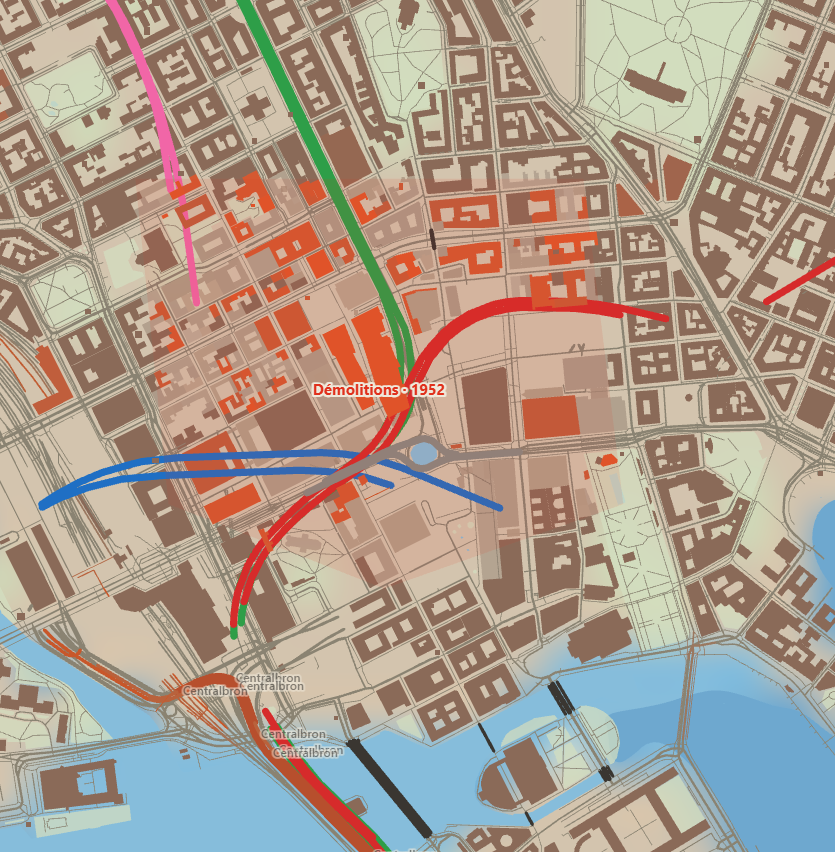
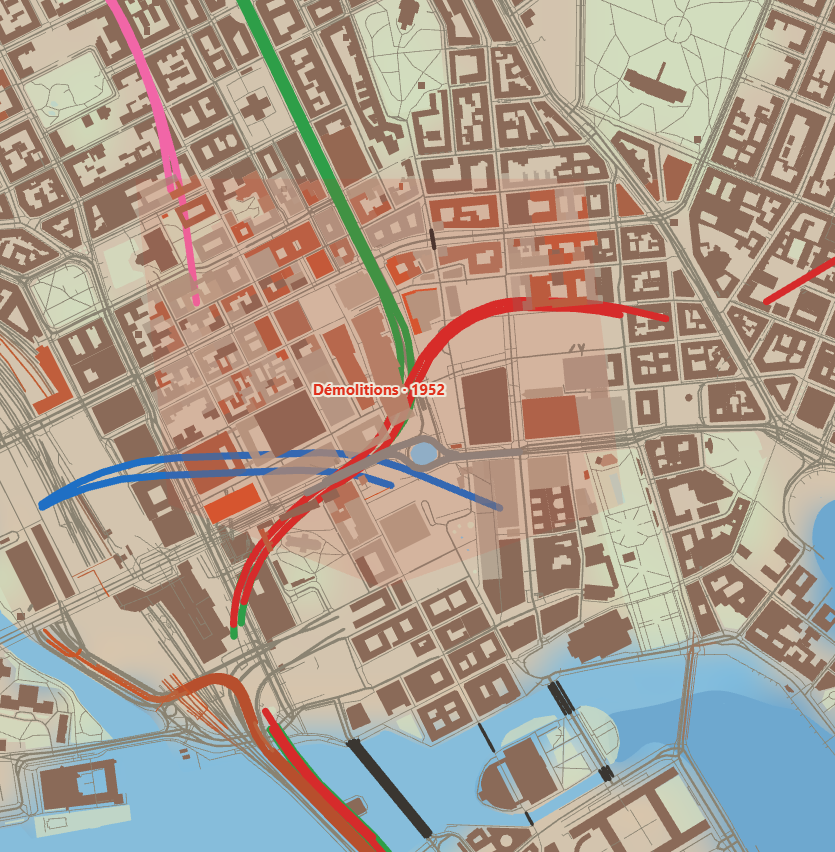
perf: objets datés en couche incrémentale (rectangles groupés, petits objets sans surface réelle masqués)

diff --git a/page/carte.js b/page/carte.js
@@ -338,56 +338,107 @@ function dessinerEau(P, villeA) {
   }
 }
 
-/* Objets datés : regroupés par couleur et par largeur (quelques traits au lieu de dizaines de milliers). */
-function dessinerObjets(P, dim) {
-  const pal = sombre() ? GROUPES_SOMBRE : GROUPES, k = Math.max(0.55, Math.min(2.4, Math.sqrt(30000 / cam.span))) * dpr;
-  const lots = new Map(), noms = [];
+/* Objets datés : regroupés par couleur et par largeur (quelques traits au lieu de dizaines de milliers).
+   Les objets « mûrs » (bâtis depuis plus de 28 ans : leur couleur ne change plus) sont dessinés une fois dans une COUCHE hors écran,
+   complétée au fil des années (on n'ajoute que les nouveaux) ; seuls les jeunes et les destructions sont redessinés à chaque image.
+   Pendant un mouvement de caméra, la couche (déplacée) sert d'image provisoire, puis elle est refaite nette 140 ms après l'arrêt. */
+const AGE_MUR = 28.2;                                  // au-delà : t = 1 dans le fondu de couleur (voir empiler)
+let coucheObjets = null, reglageObjets = 0;
+const compter = (tri, x) => { let a = 0, b = tri.length; while (a < b) { const m = (a + b) >> 1; if (tri[m] <= x) a = m + 1; else b = m; } return a; };   // éléments ≤ x d'un tableau trié
+function aireM2(o) {
+  if (o.m2 !== undefined) return o.m2;
+  const a = o.f[0]; let s = 0; for (let i = 0, n = a.length; i < n; i += 2) { const j = (i + 2) % n; s += a[i] * a[j + 1] - a[j] * a[i + 1]; }
+  return (o.m2 = Math.abs(s) / 2 / (KM * KM));      // KM : voir themes.js
+}
+/* prépare les listes d'objets à dessiner (appelé quand ville.objets change) */
+function preparerObjets() {
+  const stables = [], speciaux = [];
   for (const o of ville.objets) {
-    if (o.an > an) break;                               // triés par année
     if (o.k === "point") continue;                      // pas de points : seulement des surfaces et des lignes
-    if (o.g === "voirie" && cam.span > 9000 && (o.w || 1) < 1.9) continue;   // de loin : seulement les grandes rues
-    let brule = -1;                                     // années depuis la destruction (incendie, démolition) ; -1 = debout
-    if (o.fin != null && an > o.fin + 0.001) {
-      const apres = an - o.fin;
-      if (o.g === "bati" && !o.brule) { /* un bâtiment démoli d'après OSM reste : on ne sait pas le remplacer */ }
-      else if ((o.brule || o.g === "monument") && apres < 20) brule = apres;
-      else continue;
-    }
-    if (!o.f.length || !dansVue(lie(o.f[0]), cam)) continue;
-    const age = an - o.an, t = Math.min(1, Math.round(age / 30 * 8) / 8), coul = o.couleur || (pal[o.g] || pal.bati);
-    let col = typeof coul === "string" ? coul : t < 1 ? mixer(coul[1], coul[0], t) : coul[0];
-    if (brule >= 0) col = mixer(o.demoli ? "#b9a48c" : "#e0301c", sombre() ? "#4a3a36" : "#6b5a52", Math.round(Math.min(1, brule / 20) * 8) / 8);
-    const al = (dim && !dim.has(o.g) ? 0.22 : 1) * (brule >= 0 ? Math.max(0.15, 1 - brule / 22) : 1), lw = o.k === "ligne" ? Math.max(0.6 * dpr, (o.w || 1) * 0.55 * k * (o.g === "lignes" ? 1.3 : 1)) : 0;
-    const cle = `${o.k}|${col}|${al}|${lw.toFixed(1)}|${o.tunnel ? 1 : 0}`;
-    let l = lots.get(cle); if (!l) lots.set(cle, l = { k: o.k, col, al, lw, tunnel: !!o.tunnel, liste: [] });
-    l.liste.push(o);
-    if (o.nom && age >= 0 && age < 18 && o.k === "ligne" && o.g === "ponts") noms.push([o, age]);
-    if (o.nom && o.g === "monument" && age >= 0 && (age < 25 || brule >= 0 || edition)) noms.push([o, brule >= 0 ? 0 : Math.min(age, 17)]);
+    (o.g === "monument" || (o.fin != null && !(o.g === "bati" && !o.brule)) ? speciaux : stables).push(o);
   }
-  cx.lineJoin = cx.lineCap = "round";
-  const S = cv.width / cam.span; let tiny = null;
+  ville.stables = stables; ville.speciaux = speciaux; ville.stablesAn = Float64Array.from(stables, (o) => o.an);
+  coucheObjets = null;
+}
+/* range l'objet dans son lot (couleur, opacité, largeur) ; renvoie son âge et sa destruction, ou null s'il n'est pas dessiné */
+function empiler(lots, o, pal, k, dim, span) {
+  if (o.g === "voirie" && span > 9000 && (o.w || 1) < 1.9) return null;   // de loin : seulement les grandes rues
+  if (o.g === "bati" && o.k === "poly") { const a = aireM2(o); if (a < 15 || (span > 2500 && a < 40)) return null; }   // kiosques, abris, entrées de métro : pas des bâtiments
+  let brule = -1;                                       // années depuis la destruction (incendie, démolition) ; -1 = debout
+  if (o.fin != null && an > o.fin + 0.001) {
+    const apres = an - o.fin;
+    if (o.g === "bati" && !o.brule) { /* un bâtiment démoli d'après OSM reste : on ne sait pas le remplacer */ }
+    else if ((o.brule || o.g === "monument") && apres < 20) brule = apres;
+    else return null;
+  }
+  const age = an - o.an, t = Math.min(1, Math.round(age / 30 * 8) / 8), coul = o.couleur || (pal[o.g] || pal.bati);
+  let col = typeof coul === "string" ? coul : t < 1 ? mixer(coul[1], coul[0], t) : coul[0];
+  if (brule >= 0) col = mixer(o.demoli ? "#b9a48c" : "#e0301c", sombre() ? "#4a3a36" : "#6b5a52", Math.round(Math.min(1, brule / 20) * 8) / 8);
+  const al = (dim && !dim.has(o.g) ? 0.22 : 1) * (brule >= 0 ? Math.max(0.15, 1 - brule / 22) : 1), lw = o.k === "ligne" ? Math.max(0.6 * dpr, (o.w || 1) * 0.55 * k * (o.g === "lignes" ? 1.3 : 1)) : 0;
+  const cle = `${o.k}|${col}|${al}|${lw.toFixed(1)}|${o.tunnel ? 1 : 0}`;
+  let l = lots.get(cle); if (!l) lots.set(cle, l = { k: o.k, col, al, lw, tunnel: !!o.tunnel, liste: [] });
+  l.liste.push(o);
+  return { age, brule };
+}
+/* dessine les lots sur g (la toile principale ou la couche) avec la caméra cm */
+function tracerLots(g, cm, lots) {
+  const S = g.canvas.width / cm.span, W2 = g.canvas.width / 2, H2 = g.canvas.height / 2, petit = 7 * dpr;
+  g.lineJoin = g.lineCap = "round";
   for (const l of lots.values()) {
-    cx.globalAlpha = l.al; cx.beginPath(); if (l.k === "poly") cx.fillStyle = l.col;
+    g.globalAlpha = l.al; g.beginPath();
     for (const o of l.liste) {
-      const b = lie(o.f[0]), w = (b[2] - b[0]) * S, h = (b[3] - b[1]) * S;
-      if (l.k === "poly" && w < 7 * dpr && h < 7 * dpr) {                // de loin : un petit carré, écrit directement dans les pixels (22 000 fillRect prenaient 1,3 s)
-        if (!tiny) { tiny = { img: cx.createImageData(cv.width, cv.height) }; }
-        if (l.rgb === undefined) { const hx = l.col; l.rgb = hx[0] === "#" && hx.length === 7 ? [1, 3, 5].map((i) => parseInt(hx.slice(i, i + 2), 16)) : null; }
-        if (l.rgb) {
-          const X0 = Math.floor(px(b[0])), X1 = Math.max(X0 + 1, Math.ceil(px(b[2]))), Y0 = Math.floor(py(b[3])), Y1 = Math.max(Y0 + 1, Math.ceil(py(b[1]))), d = tiny.img.data, A = Math.round(255 * l.al);
-          for (let yy = Y0; yy < Y1; yy++) for (let xx = X0; xx < X1; xx++) {
-            if (xx < 0 || yy < 0 || xx >= cv.width || yy >= cv.height) continue; const i = 4 * (yy * cv.width + xx); d[i] = l.rgb[0]; d[i + 1] = l.rgb[1]; d[i + 2] = l.rgb[2]; d[i + 3] = A;
-          }
-        }
-        continue;
+      const b = lie(o.f[0]);
+      if (!dansVue(b, cm, g.canvas)) continue;
+      const w = (b[2] - b[0]) * S, h = (b[3] - b[1]) * S;
+      if (l.k === "poly" && w < petit && h < petit) {      // de loin : un petit rectangle calé sur les pixels
+        const X0 = Math.floor(W2 + (b[0] - cm.x) * S), Y0 = Math.floor(H2 - (b[3] - cm.y) * S);
+        g.rect(X0, Y0, Math.max(1, Math.ceil(W2 + (b[2] - cm.x) * S) - X0), Math.max(1, Math.ceil(H2 - (b[1] - cm.y) * S) - Y0)); continue;
       }
       if (l.k === "ligne" && w < 1.5 && h < 1.5) continue;
-      for (const a of o.f) trace(cx, a, l.k === "poly", cam);
+      for (const a of o.f) trace(g, a, l.k === "poly", cm);
     }
-    if (l.k === "poly") { cx.fillStyle = l.col; cx.fill(); }
-    else { cx.strokeStyle = l.col; cx.lineWidth = l.lw; cx.setLineDash(l.tunnel ? [4 * dpr, 4 * dpr] : []); cx.stroke(); cx.setLineDash([]); }
+    if (l.k === "poly") { g.fillStyle = l.col; g.fill(); }
+    else { g.strokeStyle = l.col; g.lineWidth = l.lw; g.setLineDash(l.tunnel ? [4 * dpr, 4 * dpr] : []); g.stroke(); g.setLineDash([]); }
   }
-  if (tiny) { const c2 = document.createElement("canvas"); c2.width = cv.width; c2.height = cv.height; c2.getContext("2d").putImageData(tiny.img, 0, 0); cx.globalAlpha = 1; cx.drawImage(c2, 0, 0); }
+  g.globalAlpha = 1;
+}
+/* la couche des objets mûrs : de l'indice a (inclus) à b (exclu) de ville.stables */
+function remplirCouche(L, a, b, pal, k, dim) {
+  const lots = new Map(), S = ville.stables;
+  for (let i = a; i < b; i++) if (S[i].an <= an - AGE_MUR) empiler(lots, S[i], pal, k, dim, L.cm.span);
+  tracerLots(L.g, L.cm, lots); L.vers = b;
+}
+function nouvelleCouche(pal, k, dim, cle) {
+  const c = document.createElement("canvas"); c.width = cv.width; c.height = cv.height;
+  const L = { c, g: c.getContext("2d"), cm: { ...cam }, vers: 0, cle };
+  remplirCouche(L, 0, compter(ville.stablesAn, an - AGE_MUR), pal, k, dim); return L;
+}
+function dessinerObjets(P, dim) {
+  if (!ville.stables) preparerObjets();
+  const pal = sombre() ? GROUPES_SOMBRE : GROUPES, k = Math.max(0.55, Math.min(2.4, Math.sqrt(30000 / cam.span))) * dpr;
+  const mur = compter(ville.stablesAn, an - AGE_MUR), tout = compter(ville.stablesAn, an);
+  const cle = `${sombre() ? 1 : 0}|${dpr}|${cv.width}|${cv.height}|${dim ? themeCourant : ""}`;
+  let L = coucheObjets;
+  if (!L || L.cle !== cle || mur < L.vers || L.c.width !== cv.width || L.c.height !== cv.height) L = coucheObjets = nouvelleCouche(pal, k, dim, cle);
+  else if (meme(L.cm, cam)) { if (mur > L.vers) remplirCouche(L, L.vers, mur, pal, k, dim); }
+  else if (mur - L.vers > 4000) L = coucheObjets = nouvelleCouche(pal, k, dim, cle);
+  else { clearTimeout(reglageObjets); reglageObjets = setTimeout(() => { if (coucheObjets && !meme(coucheObjets.cm, cam)) { coucheObjets = null; sale = true; planifier(); } }, 140); }
+  /* la couche : à sa place, ou déplacée et mise à l'échelle pendant le mouvement */
+  const f = L.cm, S = cv.width / cam.span, ech = f.span / cam.span;
+  cx.save(); cx.globalAlpha = 1;
+  if (meme(f, cam)) cx.drawImage(L.c, 0, 0);
+  else { cx.translate(cv.width / 2 + (f.x - cam.x) * S, cv.height / 2 - (f.y - cam.y) * S); cx.scale(ech, ech); cx.drawImage(L.c, -cv.width / 2, -cv.height / 2); }
+  cx.restore();
+  /* les objets pas encore dans la couche (jeunes, destructions) : dessinés en direct */
+  const lots = new Map(), noms = [], S2 = ville.stables;
+  const note = (o, r) => {
+    if (!r) return; const { age, brule } = r;
+    if (o.nom && age >= 0 && age < 18 && o.k === "ligne" && o.g === "ponts") noms.push([o, age]);
+    if (o.nom && o.g === "monument" && age >= 0 && (age < 25 || brule >= 0 || edition)) noms.push([o, brule >= 0 ? 0 : Math.min(age, 17)]);
+  };
+  for (let i = L.vers; i < tout; i++) note(S2[i], empiler(lots, S2[i], pal, k, dim, cam.span));
+  for (const o of ville.speciaux) { if (o.an > an) break; note(o, empiler(lots, o, pal, k, dim, cam.span)); }
+  tracerLots(cx, cam, lots);
   cx.globalAlpha = 1;
   for (const z of ville.zonesM || []) {
     const finEclair = z.detruitFin ?? z.detruit + 14;
@@ -420,7 +471,7 @@ function planifier() { if (planifie) return; planifie = true; requestAnimationFr
 function dimensionner() {
   dpr = Math.min(2, devicePixelRatio || 1);
   const r = cv.getBoundingClientRect(); cv.width = Math.max(2, Math.round(r.width * dpr)); cv.height = Math.max(2, Math.round(r.height * dpr));
-  fondCache = null; sale = true; planifier();
+  fondCache = null; coucheObjets = null; sale = true; planifier();
 }
 addEventListener("resize", () => { if (!enDiapo()) { dimensionner(); majDefilement(); majGrands(); } });
 addEventListener("scroll", () => { if (!enDiapo()) { if (libre && !lecture && !edition) { libre = false; elNote.textContent = "défiler ou jouer"; } majDefilement(); majGrands(); } }, { passive: true });
@@ -608,7 +659,7 @@ function appliquerQuartiers() {
   }
   tous.sort((p, q) => p.an - q.an);
   ville.objets = tous; ville.fond.bati = resteB; ville.fond.rues = resteR; ville.zonesM = zones.concat(eclairs);
-  fondCache = null; sale = true; planifier();
+  preparerObjets(); fondCache = null; sale = true; planifier();
   if (typeof recalculerCourbe === "function") recalculerCourbe();
 }
 let sauvegarde = 0;

diff --git a/outils/bench/t2.js b/outils/bench/t2.js
@@ -1,0 +1,7 @@
+const { chromium } = require("playwright"); const http=require("http"),fs=require("fs"),path=require("path");
+const racine=path.resolve(__dirname,"..",".."); const T={".js":"text/javascript",".json":"application/json",".html":"text/html"};const srv=http.createServer((q,r)=>{let p=decodeURIComponent(q.url.split("?")[0]);const f=path.join(racine,p);if(!fs.existsSync(f)||fs.statSync(f).isDirectory()){r.writeHead(404);return r.end()}r.writeHead(200,{"content-type":T[path.extname(f)]||"application/octet-stream"});fs.createReadStream(f).pipe(r)});
+(async()=>{await new Promise(o=>srv.listen(0,o));const nav=await chromium.launch();const page=await (await nav.newContext({viewport:{width:1440,height:900}})).newPage();
+await page.goto(`http://localhost:${srv.address().port}/page/index.html`);await page.waitForFunction(()=>typeof ville!=="undefined"&&ville&&ville.objets,null,{timeout:120000});
+console.log(JSON.stringify(await page.evaluate((src)=>{const c={};for(const o of ville.objets){const k=o.g+"|"+o.k;c[k]=(c[k]||0)+1}
+const st=ville.objets.filter(o=>o.g==="stations").slice(0,3).map(o=>({k:o.k,an:o.an,n:o.f.length,nom:o.nom,att:o.att,f:o.f[0].length}));
+const K=1/Math.cos(59.33*Math.PI/180),area=(f)=>{const a=f[0];let s=0;for(let i=0,n=a.length;i<n;i+=2){const j=(i+2)%n;s+=a[i]*a[j+1]-a[j]*a[i+1]}return Math.abs(s)/2/(K*K)};const h={};const bs=ville.objets.filter(o=>o.g==="bati"&&o.k==="poly");for(const o of bs){const a=area(o.f);const b=a<10?"<10":a<20?"10-20":a<40?"20-40":a<80?"40-80":a<200?"80-200":a<700?"200-700":">700";h[b]=(h[b]||0)+1}const gh=ville.fond.bati.length;return {h,gh,att:JSON.stringify(ville.objets.find(o=>o.att)?.att),att2:JSON.stringify([...ville.attParF.values()].slice(0,3))}},0),null,1));await nav.close();srv.close()})();

diff --git a/outils/bench/resume.js b/outils/bench/resume.js
@@ -1,0 +1,9 @@
+/* node resume.js avant p3 … : tableau comparatif des résultats-*.json */
+const fs = require("fs"), n = process.argv.slice(2), R = n.map((e) => JSON.parse(fs.readFileSync(`resultats-${e}-dpr1.json`)));
+const ligne = (t, f) => console.log(t.padEnd(34), R.map((r) => String(f(r) ?? "—").padStart(12)).join(""));
+console.log("".padEnd(34), n.map((e) => e.padStart(12)).join(""));
+ligne("démarrage (ms)", (r) => r.demarrageMs);
+ligne("mémoire canvas (Mo)", (r) => r.memoire.totalMo);
+ligne("requêtes / octets au démarrage", (r) => `${r.reseau.requetes}/${(r.reseau.octets / 1048576).toFixed(1)}Mo`);
+for (const v of Object.keys(R[0].etapes)) ligne(`rendre() ${v} (ms)`, (r) => r.etapes[v]?.rendreMs);
+for (const z of Object.keys(R[0].defilement)) { ligne(`${z} : images >50 ms`, (r) => r.defilement[z].sup50); ligne(`${z} : max (ms)`, (r) => r.defilement[z].max); ligne(`${z} : rendus WebGL`, (r) => r.defilement[z].rendusWebGL); }
